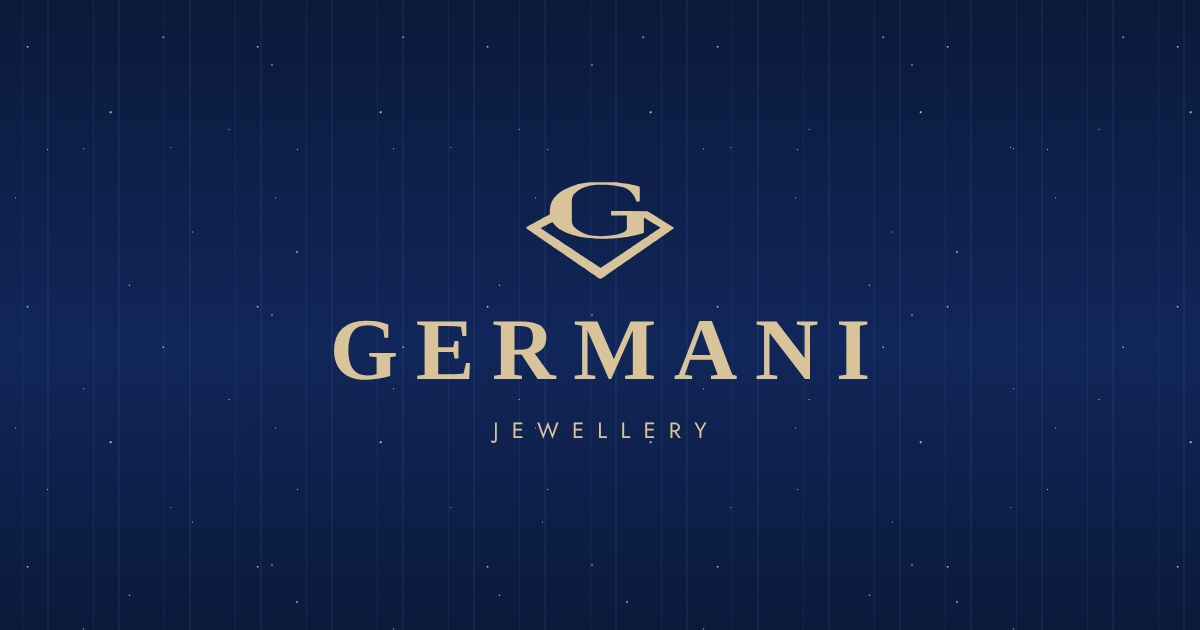
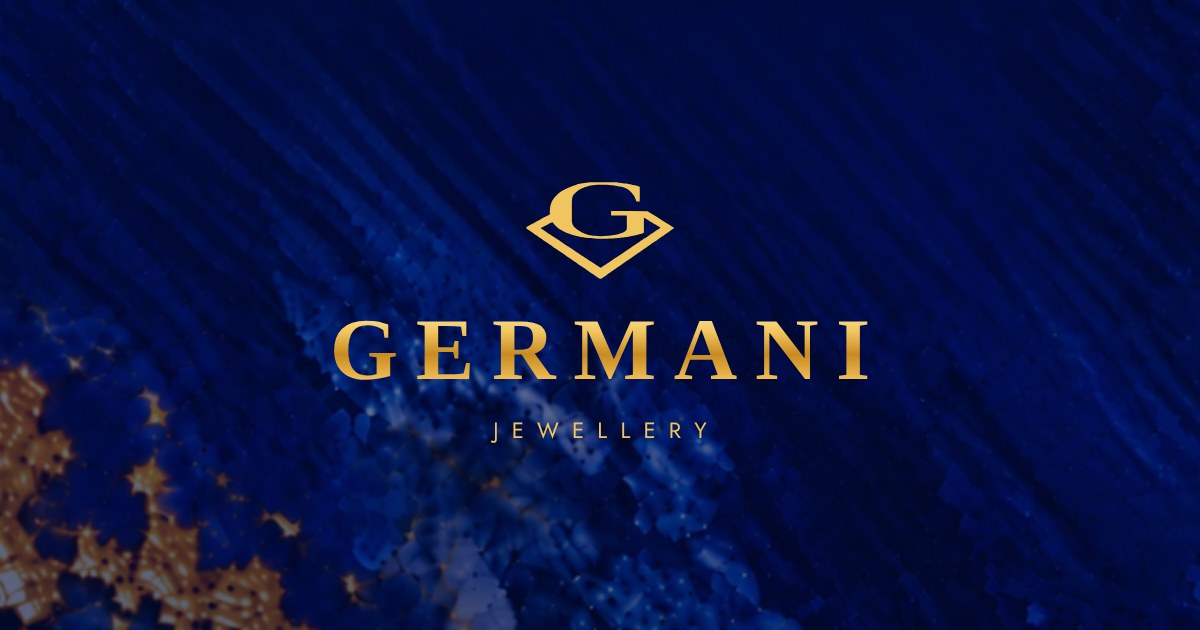
Use the Germani brochure colours across the site
Michel asked for the same colours as the Germani brochure:

- Lapis blue header, buttons and dark sections, using the real
  lapis-and-gold-leaf texture from the brochure cover
- Brushed-gold sweep from the cover on the homepage banner and a
  gold rule above the footer
- Ivory satin pages with burgundy headings and dark-grey text, as on
  the brochure's inside pages
- Richer metallic gold logo; favicon and share image updated

Claude-Session: https://claude.ai/code/session_01YErHAkG1NViqXgVA9nc83o

diff --git a/assets/css/site.css b/assets/css/site.css
@@ -3,18 +3,19 @@
    ========================================================================== */
 
 :root {
-  /* Germani brand colours: Navy Blue, Gold, Ivory */
-  --ink: #0b1a3a;          /* navy blue */
-  --ink-soft: #2a3653;
-  --night: #081430;        /* deep navy for the starfield */
-  --gold: #b8955a;
-  --gold-soft: #d9c39a;    /* gold on navy */
-  --gold-metal: linear-gradient(180deg, #f7e8bc 0%, #e4c47e 32%, #b9883e 54%, #d8b366 74%, #f2dea4 100%);
-  --paper: #f8f3e8;        /* ivory: main page background */
-  --ivory: #efe7d6;        /* light cream: alternate sections */
-  --text: #1f2740;
-  --muted: #6d675c;
-  --line: #ddd2bd;
+  /* Germani brochure colours: lapis blue, gold leaf, ivory satin, burgundy */
+  --ink: #0a1c6b;          /* lapis blue: header, buttons */
+  --ink-soft: #4a423a;
+  --night: #010e4f;        /* deep lapis */
+  --wine: #773731;         /* burgundy headings */
+  --gold: #a8701c;         /* gold accents on ivory */
+  --gold-soft: #f0c867;    /* gold on lapis */
+  --gold-metal: linear-gradient(180deg, #fdeaa8 0%, #f1c45e 30%, #c98a22 55%, #e8b34b 78%, #fde39b 100%);
+  --paper: #f6efe4;        /* ivory satin: main page background */
+  --ivory: #eee3d2;        /* deeper ivory: alternate sections */
+  --text: #2f2f30;
+  --muted: #6b6258;
+  --line: #e0d2bc;
 
   --serif: "Cormorant Garamond", "Times New Roman", serif;
   --logo: "Times New Roman", "Tinos", Times, serif;   /* the Germani logo is set in Times Roman */
@@ -47,7 +48,7 @@ a { color: inherit; text-decoration: none; }
 h1, h2, h3, h4 {
   font-family: var(--serif);
   font-weight: 400;
-  color: var(--ink);
+  color: var(--wine);
   line-height: 1.15;
   margin: 0 0 .5em;
   letter-spacing: .01em;
@@ -124,7 +125,7 @@ p { margin: 0 0 1.2em; }
   font-weight: 400;
   letter-spacing: .26em;
   text-transform: uppercase;
-  color: var(--ink);
+  color: var(--text);
   padding-bottom: 6px;
   border-bottom: 1px solid var(--gold);
   transition: color .3s, border-color .3s;
@@ -135,11 +136,11 @@ p { margin: 0 0 1.2em; }
 
 .site-header {
   position: sticky; top: 0; z-index: 50;
-  background: var(--ink);
-  border-bottom: 1px solid rgba(217,195,154,.25);
+  background: linear-gradient(180deg, #0a1c6b 0%, #010e4f 100%);
+  border-bottom: 1px solid rgba(240,200,103,.35);
   transition: box-shadow .3s ease;
 }
-.site-header.is-scrolled { box-shadow: 0 6px 24px rgba(11,26,58,.25); }
+.site-header.is-scrolled { box-shadow: 0 6px 24px rgba(1,14,79,.3); }
 
 .hdr-top {
   display: grid;
@@ -150,7 +151,7 @@ p { margin: 0 0 1.2em; }
   transition: padding .3s ease;
 }
 
-.hdr-side { font-size: .7rem; letter-spacing: .24em; text-transform: uppercase; color: rgba(248,243,232,.7); }
+.hdr-side { font-size: .7rem; letter-spacing: .24em; text-transform: uppercase; color: rgba(246,239,228,.7); }
 .hdr-side--right { justify-self: end; }
 .hdr-side a:hover { color: var(--gold-soft); }
 
@@ -265,34 +266,15 @@ p { margin: 0 0 1.2em; }
   position: relative;
   background-color: var(--night);
   background-image:
-    radial-gradient(2.2px 2.2px at 12% 18%, rgba(255,255,255,.9), transparent 60%),
-    radial-gradient(1.6px 1.6px at 27% 62%, rgba(255,255,255,.8), transparent 60%),
-    radial-gradient(2.6px 2.6px at 41% 34%, rgba(255,255,255,.95), transparent 60%),
-    radial-gradient(1.6px 1.6px at 55% 80%, rgba(255,255,255,.7), transparent 60%),
-    radial-gradient(2.1px 2.1px at 68% 12%, rgba(255,255,255,.9), transparent 60%),
-    radial-gradient(1.6px 1.6px at 79% 48%, rgba(255,255,255,.8), transparent 60%),
-    radial-gradient(2.4px 2.4px at 90% 72%, rgba(255,255,255,.9), transparent 60%),
-    radial-gradient(1.6px 1.6px at 6% 86%, rgba(255,255,255,.7), transparent 60%),
-    radial-gradient(1.9px 1.9px at 35% 92%, rgba(255,255,255,.8), transparent 60%),
-    radial-gradient(1.6px 1.6px at 61% 41%, rgba(255,255,255,.7), transparent 60%),
-    radial-gradient(1.9px 1.9px at 85% 26%, rgba(255,255,255,.85), transparent 60%),
-    radial-gradient(1.6px 1.6px at 19% 44%, rgba(255,255,255,.75), transparent 60%),
-    repeating-linear-gradient(90deg,
-      transparent 0 22px,
-      rgba(120,150,220,.10) 22px 23px,
-      transparent 23px 47px,
-      rgba(140,170,235,.07) 47px 49px,
-      transparent 49px 71px),
-    linear-gradient(180deg, #0b1a3a 0%, #11265a 55%, #0b1a3a 100%);
-  background-size:
-    230px 260px, 310px 240px, 270px 330px, 350px 290px, 240px 310px, 290px 270px,
-    330px 350px, 260px 230px, 370px 310px, 280px 360px, 320px 250px, 250px 340px,
-    auto, auto;
+    linear-gradient(180deg, rgba(1,14,79,.55), rgba(1,10,56,.7)),
+    url("../img/lapis-band.webp");
+  background-size: auto, cover;
+  background-position: center, center;
   color: var(--paper);
 }
-.starfield h1, .starfield h2, .starfield h3 { color: var(--paper); }
+.starfield h1, .starfield h2, .starfield h3, .starfield blockquote { color: var(--paper); }
 .starfield .eyebrow { color: var(--gold-soft); }
-.starfield p { color: rgba(248,243,232,.82); }
+.starfield p { color: rgba(246,239,228,.86); }
 
 /* ---------- Hero ---------- */
 
@@ -309,6 +291,18 @@ p { margin: 0 0 1.2em; }
 }
 @keyframes heroZoom { from { transform: scale(1.08); } to { transform: scale(1); } }
 
+.hero__panel.starfield {
+  background-image: radial-gradient(ellipse 80% 58% at 50% 46%, rgba(1,10,56,.9) 0%, rgba(1,10,56,.78) 45%, rgba(1,10,56,.35) 85%, rgba(1,10,56,.2)), url("../img/lapis-panel.webp");
+  overflow: hidden;
+}
+.hero__panel::after {
+  content: ""; position: absolute; left: -10%; right: -10%; bottom: 0; height: 17%;
+  background: url("../img/gold-leaf.webp") center / cover;
+  clip-path: ellipse(75% 100% at 70% 100%);
+  border-top: 2px solid #fde39b;
+  pointer-events: none;
+}
+.hero__panel > * { position: relative; z-index: 1; }
 .hero__panel {
   display: flex; flex-direction: column; justify-content: center; align-items: center;
   text-align: center;
@@ -338,7 +332,7 @@ p { margin: 0 0 1.2em; }
 
 .section-head { text-align: center; max-width: 720px; margin: 0 auto clamp(40px, 5vw, 72px); }
 .section-head p { color: var(--muted); }
-.starfield .section-head p { color: rgba(255,255,255,.78); }
+.starfield .section-head p { color: rgba(246,239,228,.82); }
 
 .statement { max-width: 860px; margin: 0 auto; text-align: center; }
 .statement .mini-mark {
@@ -370,7 +364,7 @@ p { margin: 0 0 1.2em; }
 .tile:hover .tile__img img { transform: scale(1.05); }
 .tile__label {
   display: block; margin-top: 20px;
-  font-family: var(--serif); font-size: 1.45rem; color: var(--ink);
+  font-family: var(--serif); font-size: 1.45rem; color: var(--text);
 }
 .tile__cta {
   display: inline-block; margin-top: 6px;
@@ -413,7 +407,7 @@ p { margin: 0 0 1.2em; }
 .founder blockquote {
   margin: 0 0 1.4em;
   font-family: var(--serif); font-style: italic;
-  font-size: clamp(1.4rem, 2.4vw, 1.9rem); line-height: 1.45; color: var(--ink);
+  font-size: clamp(1.4rem, 2.4vw, 1.9rem); line-height: 1.45; color: var(--wine);
 }
 
 /* Steps */
@@ -476,7 +470,7 @@ p { margin: 0 0 1.2em; }
 .piece__img--studio img { object-fit: contain; padding: 6%; }
 .piece:hover .piece__img img { transform: scale(1.05); }
 .piece figcaption { text-align: center; padding-top: 18px; }
-.piece__name { display: block; font-family: var(--serif); font-size: 1.3rem; color: var(--ink); line-height: 1.3; }
+.piece__name { display: block; font-family: var(--serif); font-size: 1.3rem; color: var(--text); line-height: 1.3; }
 .piece__desc { display: block; font-size: .85rem; color: var(--muted); margin-top: 4px; }
 
 .collection-note { text-align: center; margin-top: clamp(56px, 7vw, 96px); }
@@ -499,7 +493,7 @@ p { margin: 0 0 1.2em; }
 .lightbox__close, .lightbox__nav {
   position: absolute; z-index: 2; width: 48px; height: 48px;
   display: grid; place-items: center;
-  border: 0; background: rgba(248,243,232,.92); color: var(--ink); cursor: pointer;
+  border: 0; background: rgba(246,239,228,.92); color: var(--ink); cursor: pointer;
   font-size: 1.6rem; line-height: 1; font-family: var(--serif);
 }
 .lightbox__close { top: 16px; right: 16px; }
@@ -569,7 +563,7 @@ p { margin: 0 0 1.2em; }
 
 /* ---------- Footer ---------- */
 
-.site-footer { padding: clamp(64px, 8vw, 110px) 0 36px; }
+.site-footer { padding: clamp(64px, 8vw, 110px) 0 36px; border-top: 4px solid transparent; border-image: linear-gradient(90deg, #974400, #f1c45e 30%, #fde39b 50%, #c98a22 75%, #974400) 1; }
 .footer-grid {
   display: grid; grid-template-columns: 1.3fr 1fr 1fr 1fr; gap: 40px;
   padding-bottom: 56px; border-bottom: 1px solid rgba(255,255,255,.14);
@@ -586,7 +580,7 @@ p { margin: 0 0 1.2em; }
 }
 .site-footer ul { list-style: none; margin: 0; padding: 0; }
 .site-footer li { margin-bottom: 10px; }
-.site-footer li a, .site-footer address { color: rgba(248,243,232,.8); font-style: normal; font-size: .92rem; }
+.site-footer li a, .site-footer address { color: rgba(246,239,228,.8); font-style: normal; font-size: .92rem; }
 .site-footer li a:hover { color: var(--gold-soft); }
 .footer-base {
   display: flex; flex-wrap: wrap; justify-content: space-between; gap: 12px;

diff --git a/README.md b/README.md
@@ -4,10 +4,13 @@ Showcase website for **Germani Jewellery**, Sydney (Michel Germani). Static HTML
 
 ## Brand rules (from Germani)
 
-- **Logo:** G-diamond mark over GERMANI in bold Times Roman, metallic gold on navy (as on the Germani brochure).
-- **Logo font:** Times New Roman (falls back to Tinos, a free Times-compatible web font, on devices without it).
-- **Colours:** Navy Blue `#0b1a3a`, Gold `#d9c39a` / `#b8955a`, Ivory `#f8f3e8` (with Light Cream `#efe7d6` for alternate sections).
-- **Logo on the website:** gold letters on navy, used in the header and footer. Signage uses white on black or a gold stainless-steel background.
+The website uses the colours of the Germani brochure:
+
+- **Lapis blue** `#0a1c6b` / `#010e4f`: header, buttons, dark sections. The dark sections use the lapis-and-gold-leaf texture from the brochure cover (`assets/img/lapis-*.webp`).
+- **Gold**: metallic gold logo, accents `#a8701c` on ivory, `#f0c867` on lapis. The homepage banner has the brushed-gold sweep from the cover (`assets/img/gold-leaf.webp`).
+- **Ivory satin** `#f6efe4` (alternate sections `#eee3d2`): page background.
+- **Burgundy** `#773731`: headings, as on the brochure's inside pages. Body text `#2f2f30`.
+- **Logo:** G-diamond mark over GERMANI in bold Times Roman (Tinos fallback), metallic gold on lapis.
 - Logo files: `assets/logo-mark-gold.svg`, `assets/logo-mark-navy.svg`, `assets/logo-mark.svg` (black).
 
 ## Pages
